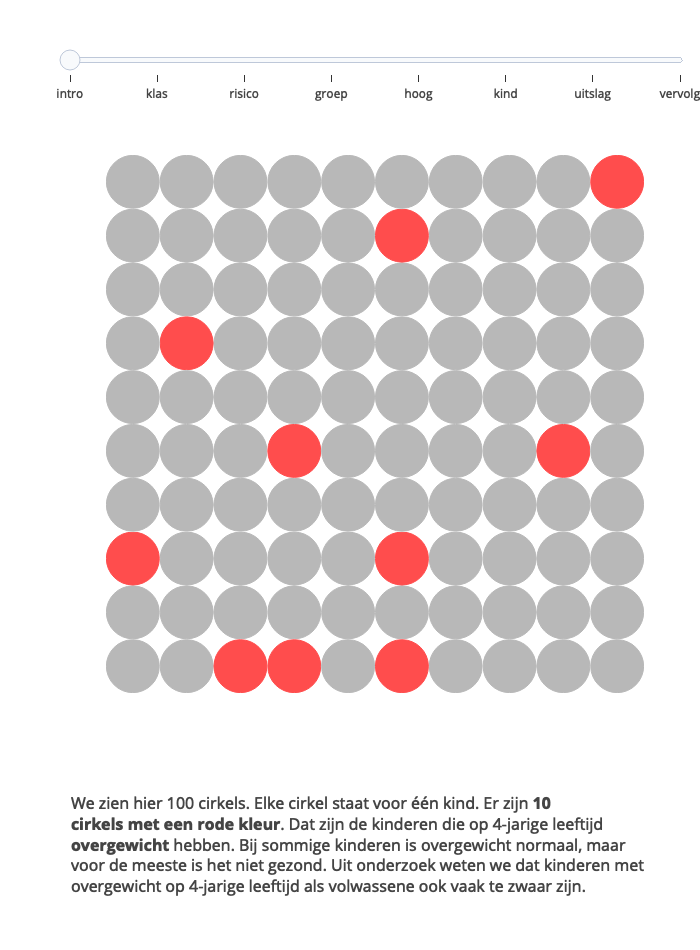
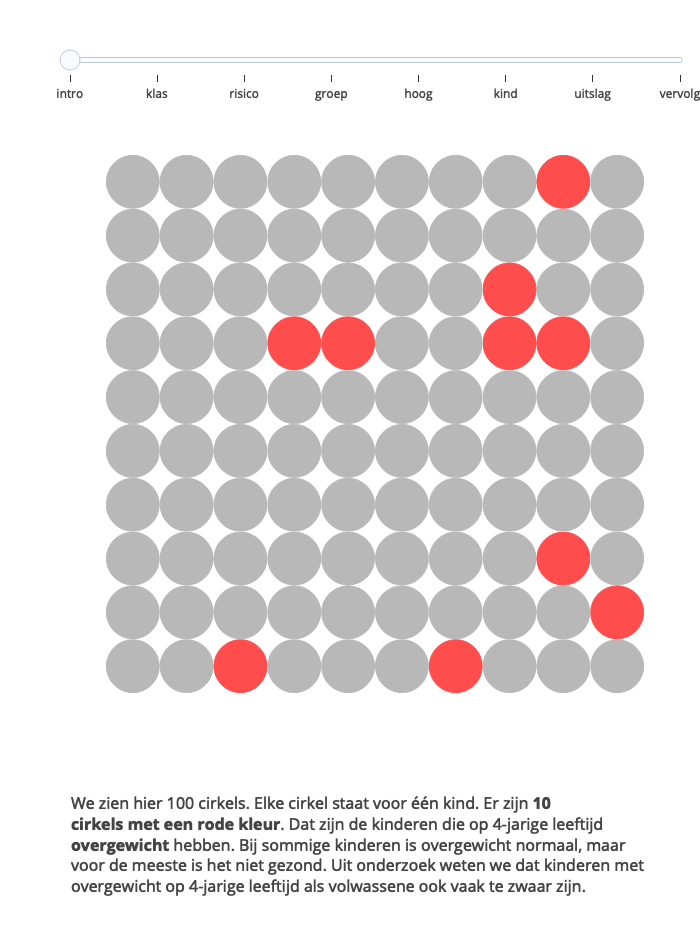
Update README

diff --git a/README.md b/README.md
@@ -12,13 +12,14 @@ new interactive graphical instrument, the **Table of Ten**, to ease
 gaining insight into personal risk probabilities. The goals of the
 method are to communicate
 
-1.  the absolute predicted probability of some future event;
-2.  the position of the predicted probability relative to other people;
+1.  the prevalence of a future outcome;
+2.  the rank of the person’s predicted probability relative to other
+    people;
 3.  the positive predictive value of the prediction;
-4.  the effect of “doing nothing” versus “doing something”.
+4.  the effect of “doing something” versus “doing nothing”.
 
 Not every goal has yet been achieved. Most of the developments in the
-present package relate to points 2 and 3.
+present package relate to points 1, 2 and 3.
 
 ## Installation
 
